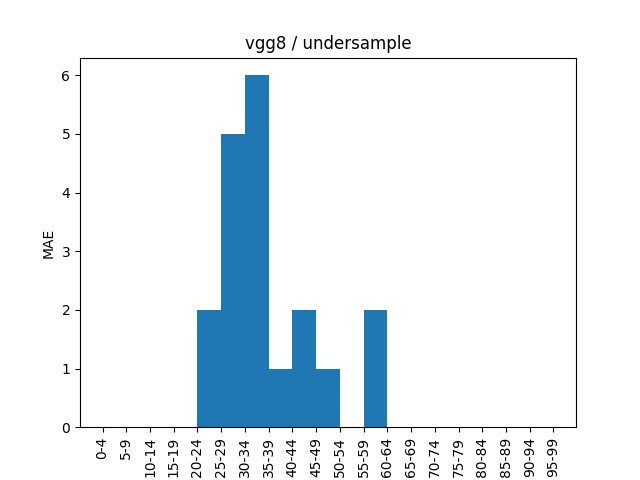
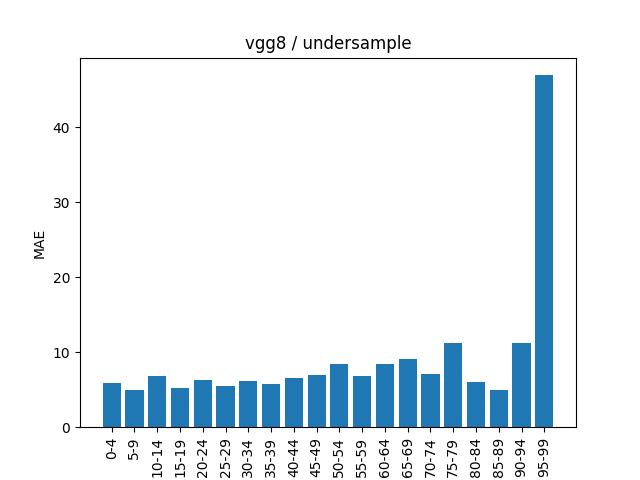
wip

diff --git a/plot_results.py b/plot_results.py
@@ -1,7 +1,6 @@
 import argparse
 import json
 import os
-import shutil
 
 import matplotlib.pyplot as plt
 import numpy as np
@@ -36,17 +35,14 @@ def main():
     plt.clf()
 
     n_bins = len(val_losses_per_bin)
-    bins = range(n_bins)
-    display_bins = [f"{5*i}-{5*i+4}" for i in bins]
+    bins = [f"{5*i}-{5*i+4}" for i in range(n_bins)]
     plt.title(cfg_desc)
     plt.xlabel("Age bin")
     plt.ylabel("MAE")
-    plt.xticks(bins, display_bins, rotation='vertical')
-    plt.hist(val_losses_per_bin, bins)
+    plt.xticks(rotation='vertical')
+    plt.bar(bins, val_losses_per_bin)
     plt.savefig(f"{figures_dir}/val_losses_per_bin.png")
     plt.clf()
-
-    shutil.copyfile(f"{results_dir}/config.json", f"{figures_dir}/config.json")
 
 if __name__ == '__main__':
     main()
